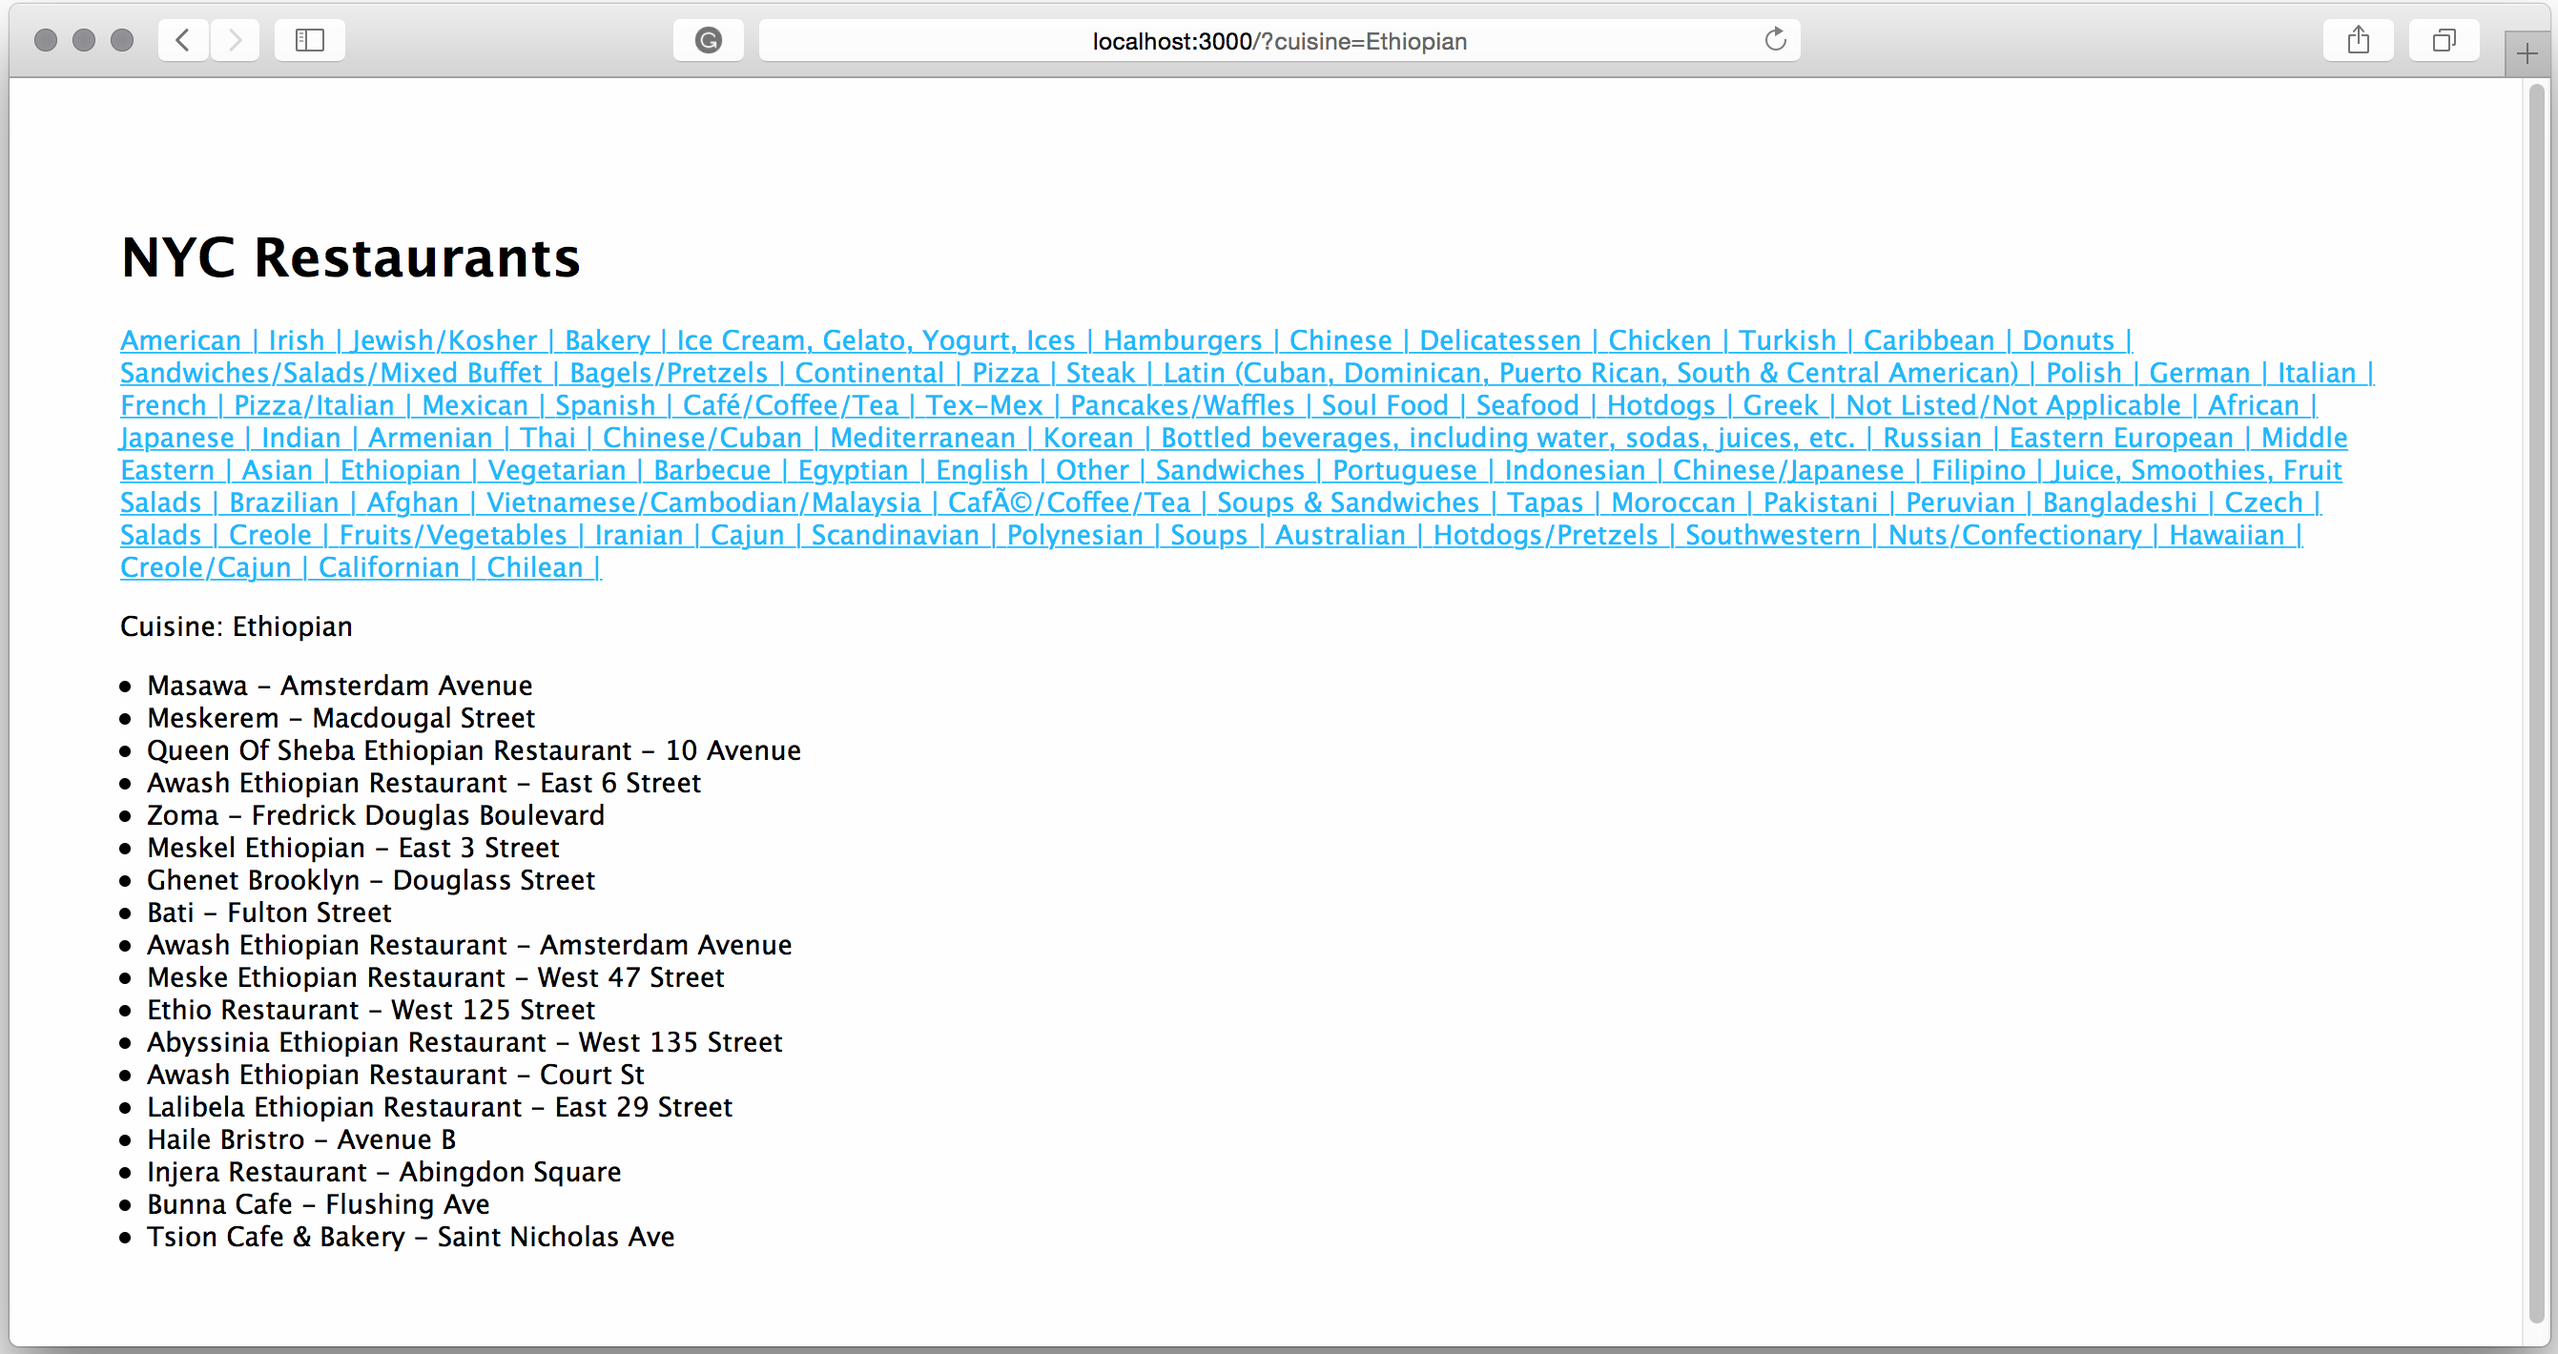
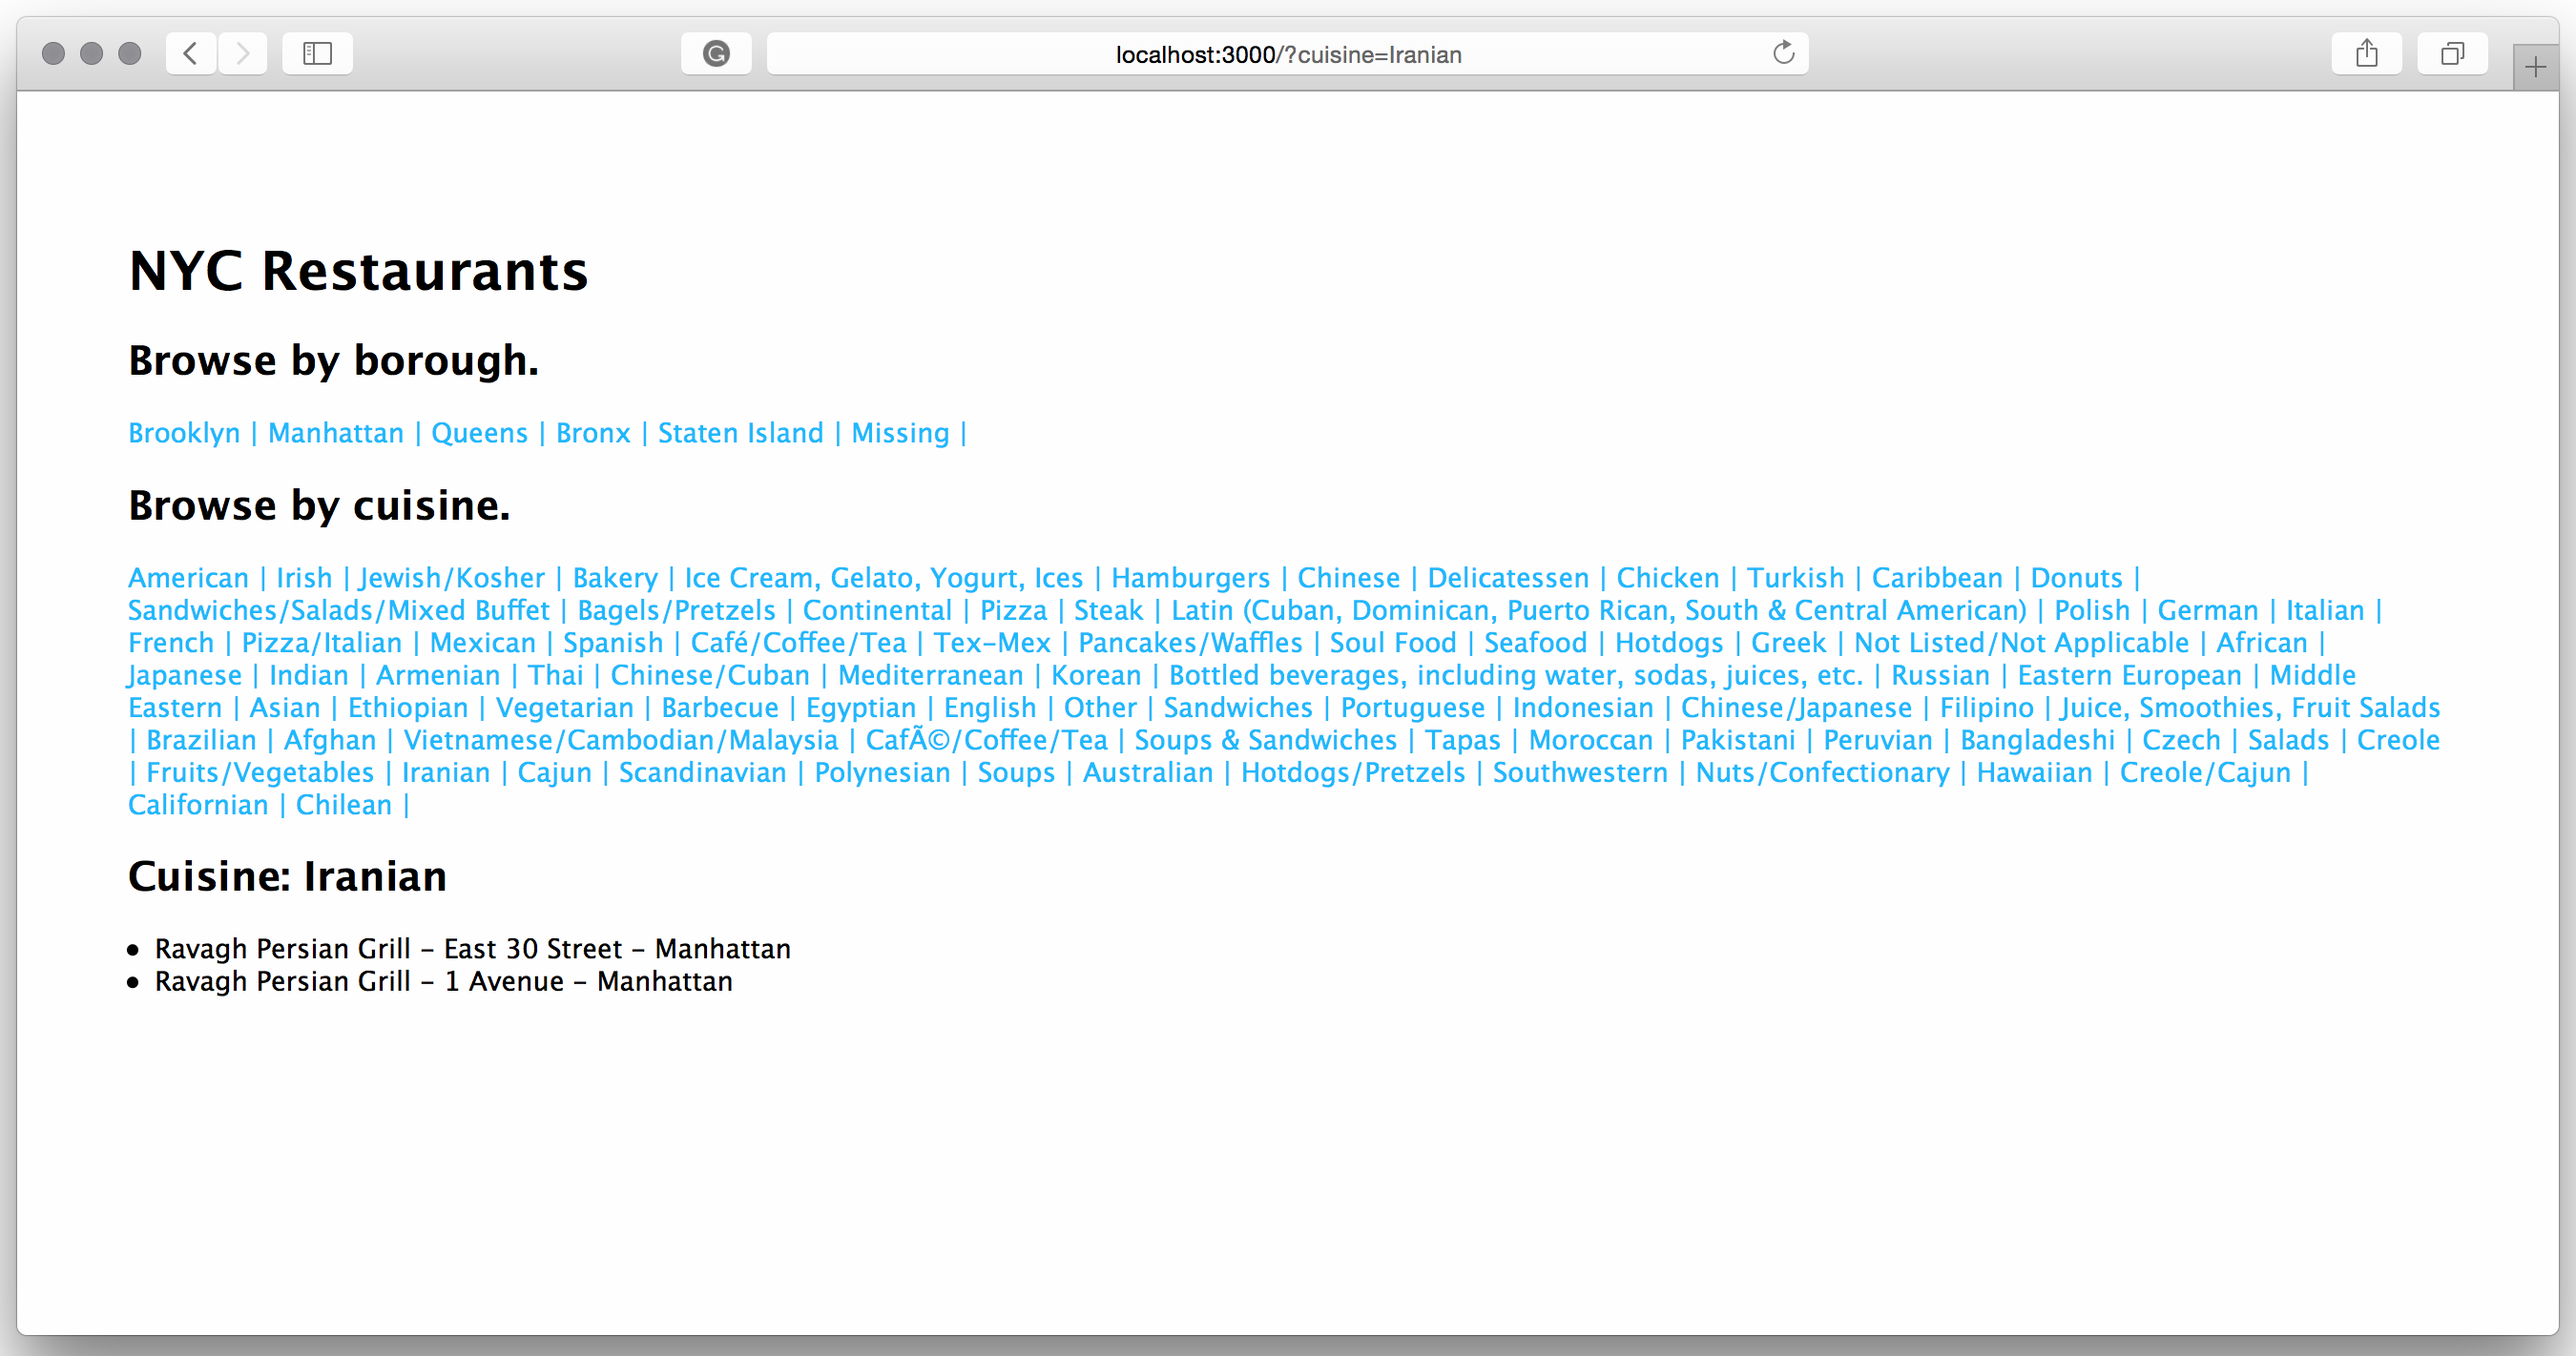
Updating with the Neighborhood add to the listing

Changed region(s): [[0.0, 0.0, 1.0, 1.0]]

diff --git a/mynyc/routes/index.js b/mynyc/routes/index.js
@@ -5,6 +5,7 @@ router.get('/', function(req, res, next) {
 	var filter;
 	var cuisine;
 	var cuisinesList;
+	var boroughs;
 
 	if (req.query.cuisine) {
 		filter = {cuisine : req.query.cuisine};
@@ -14,6 +15,15 @@ router.get('/', function(req, res, next) {
 		filter = {};
 		cuisine = "All";
 	}
+	
+	mongoose.model('Restaurants').distinct("borough", function(err, resBorough){
+		if (err) {
+			return console.error(err);
+		} 
+		else{
+			boroughs = resBorough;
+		}
+	});
 
 	mongoose.model('Restaurants').distinct("cuisine", function(err, cuisinesList) {
 		if (err) {
@@ -31,6 +41,7 @@ router.get('/', function(req, res, next) {
 							res.render('index', {
 								title : 'NYC Restaurants',
 								"cuisines_list" : cuisinesList,
+								"boroughs_list" : boroughs,
 								cuisine : cuisine,
 								"restaurants" : restaurants});
 							}, 

diff --git a/mynyc/model/restaurants.js b/mynyc/model/restaurants.js
@@ -3,8 +3,8 @@ var restaurantSchema = new mongoose.Schema({
   restaurant_id: Number,
   name: String,
   cuisine: String,
-  borouhg: String,
-  address: {building:String, street:String}
+  borough: String,
+  address: {building:String, building:String, street:String, coord:String}
 });
 mongoose.model('Restaurants', restaurantSchema);
 

diff --git a/mynyc/public/stylesheets/style.css b/mynyc/public/stylesheets/style.css
@@ -6,4 +6,9 @@ body {
 
 a {
   color: #00B7FF;
+  text-decoration: none;
+}
+
+a:hover{
+	color: #000000;
 }
